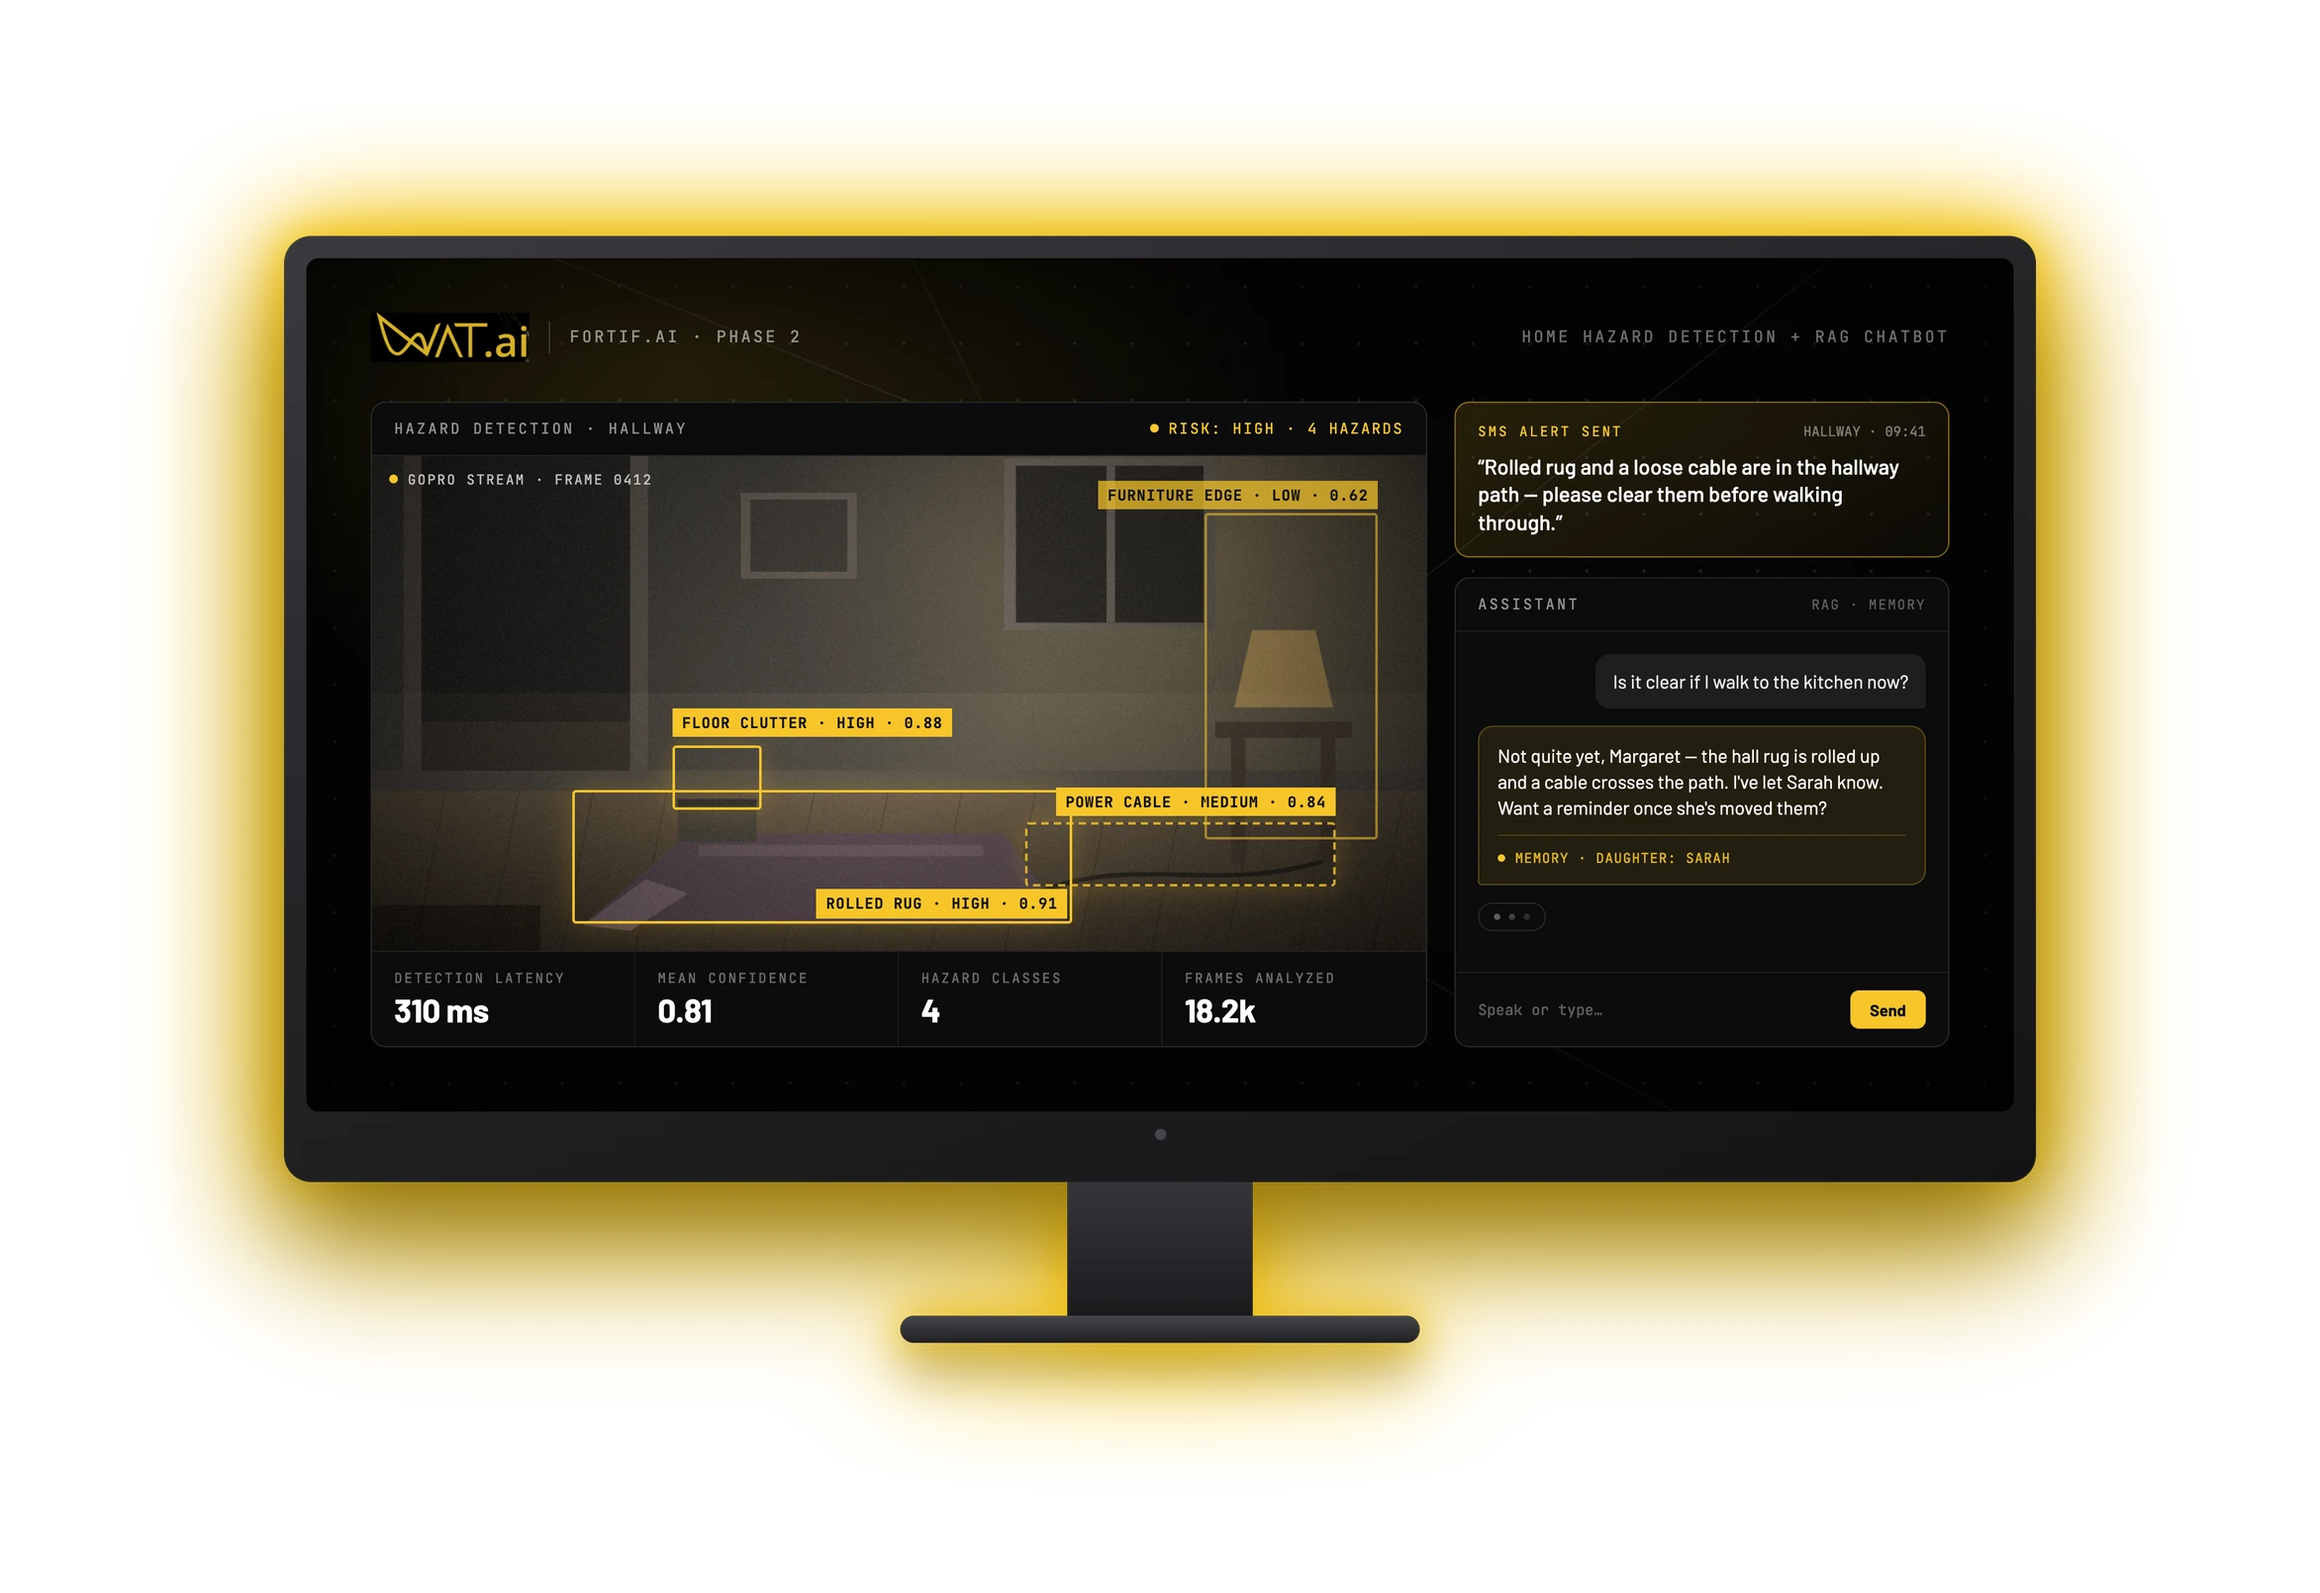
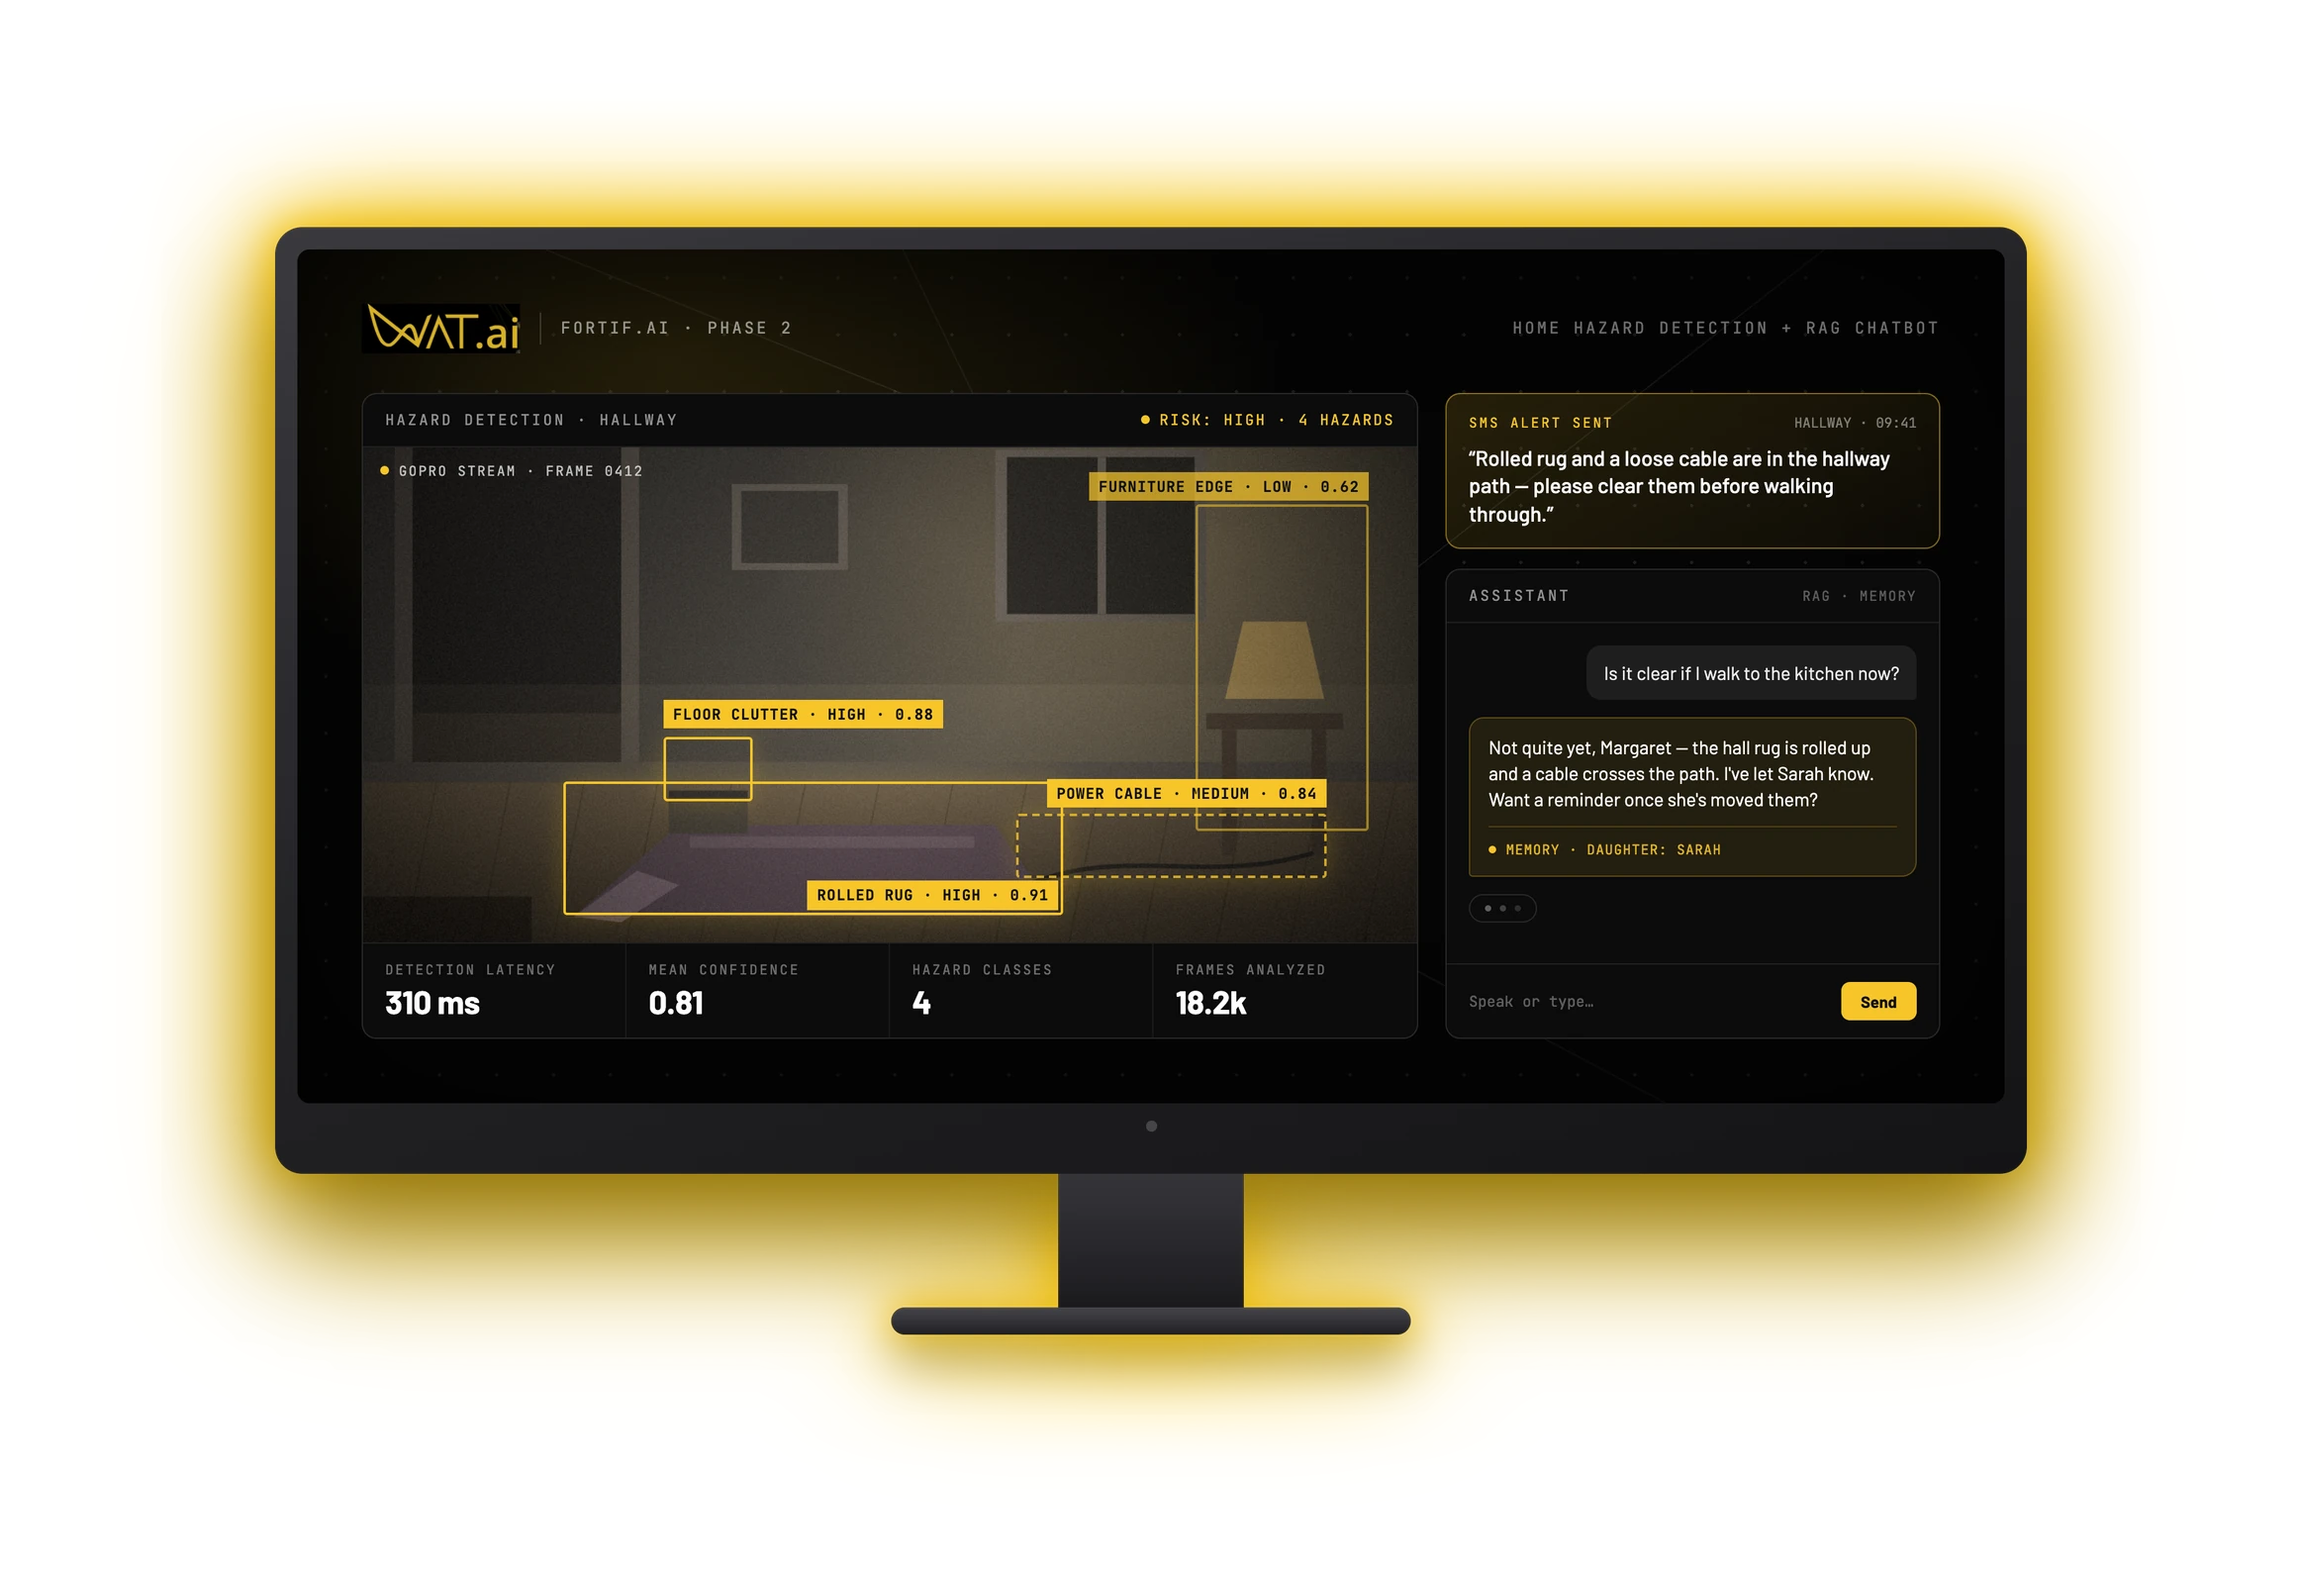
shrink wat.ai monitor and soften its glow

diff --git a/src/style.css b/src/style.css
@@ -901,7 +901,7 @@ body {
 
 /* WAT.ai project (id 1): meta sits 68px under visible image bottom */
 .project-detail-content:has(.project-glow-1) .detail-meta {
-  margin-top: -7.08rem;
+  margin-top: -5.66rem;
 }
 
 /* Aeon (id 4) detail: preserve true image shape and transparency */
@@ -945,9 +945,9 @@ body {
 /* WAT.ai (id 1) detail: preserve true image shape and transparency */
 /* WAT.ai monitor renders larger than the standard frame */
 .project-detail-image-container.wat-detail {
-  max-width: 1055px;
-  width: min(80vw, 1055px);
-  transform: translateY(-92px);
+  max-width: 950px;
+  width: min(72vw, 950px);
+  transform: translateY(-81px);
 }
 
 @media (max-width: 768px) {
